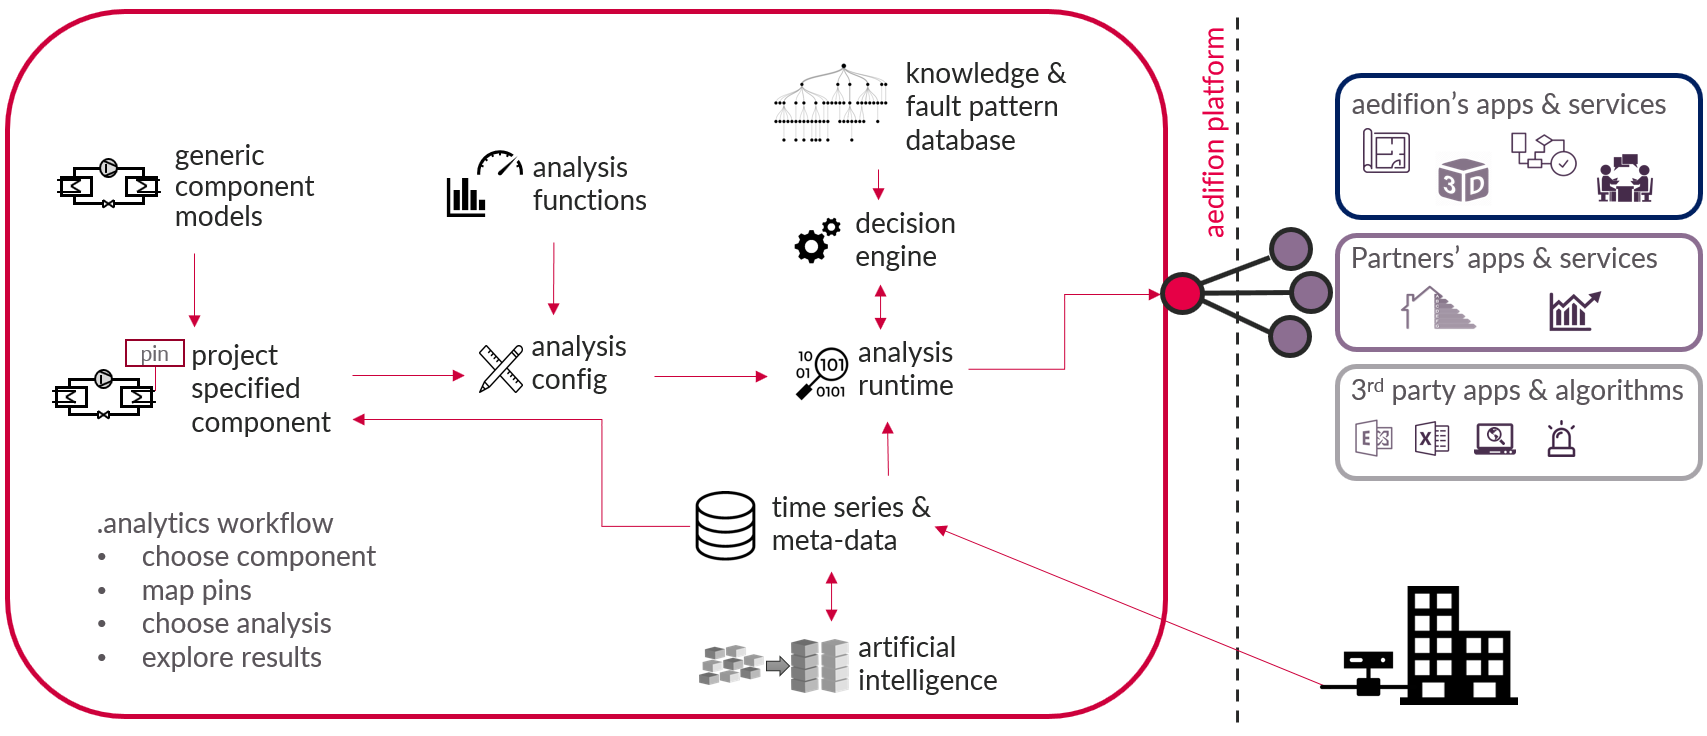
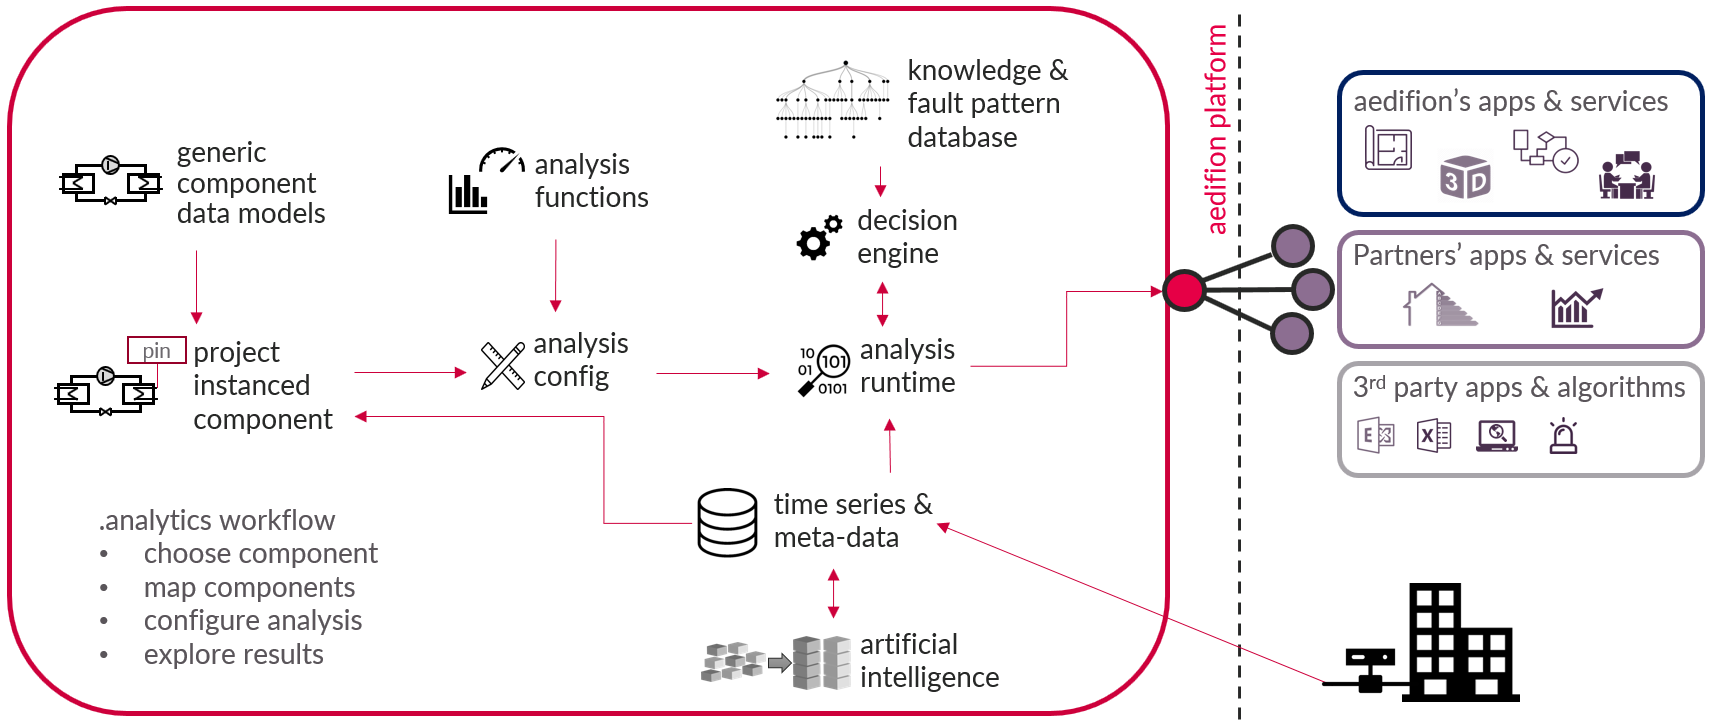
GitBook: [master] 2 pages and 2 assets modified

diff --git a/aedifion.analytics.md b/aedifion.analytics.md
@@ -39,7 +39,7 @@ _Short summary on terminology:_
 * [Components ****](glossary.md#component)are virtual or logical objects within a building or energy-related plants, such as e.g. pumps, boilers, thermal zones, control loops and so forth.
 * \*\*\*\*[Component data models](glossary.md#component-data-model) are generic data models of components.
 * [Instanced components](glossary.md#instanced-component) are component data models instanced for a specific project. They can be [mapped ](aedifion.analytics.md#mapping)to adapt them to specific projects.
-* [Mapping ](glossary.md#mapping)is the process of linking [datapoints ](glossary.md#datapoint)to [pins ](glossary.md#pin)of the component data model and adding meta-data [tags](glossary.md#tag).
+* [Mapping ](glossary.md#mapping)is the process of linking [datapoints ](glossary.md#datapoint)to [pins ](glossary.md#pin)of the component data model and adding meta data [tags](glossary.md#tag).
 {% endhint %}
 
 All contemporary available component ****data models are collected in the aedifion component data model library. The component data models needed for a specific project can be chosen from this library. As soon as a component gets [instanced](aedifion.analytics.md#instance-components) to a specific project, it can be [mapped](aedifion.analytics.md#mapping) to specify it for that project. [Configuring ](aedifion.analytics.md#configuring-analysis)an instanced component with [analysis functions ](aedifion.analytics.md#analysis-functions)enables its analysis.
@@ -50,13 +50,13 @@ _Learn more? Explore the_ [_available components_](engineers/specifications/anal
 
 Analysis functions are granular and generic functions to analyse the operation of [components](glossary.md#component). The aedifion analysis function library inherits all contemporary available analysis functions within aedifion.analytics.
 
-Analysis functions are available per component data model and get executed on [mapped ](glossary.md#mapping)[pins ](glossary.md#pin)and meta-data of [instanced components](glossary.md#instanced-component). E.g., an analysis of plant cycles is available for several instanced components like heat pumps, air handling units, boilers and so forth. This analysis requires a [mapping ](aedifion.analytics.md#mapping)of the pin _operating message_ of the analyzed instanced component.
+Analysis functions are available per component data model and get executed on [mapped ](glossary.md#mapping)[pins ](glossary.md#pin)and meta data of [instanced components](glossary.md#instanced-component). E.g., an analysis of plant cycles is available for several instanced components like heat pumps, air handling units, boilers and so forth. This analysis requires a [mapping ](aedifion.analytics.md#mapping)of the pin _operating message_ of the analyzed instanced component.
 
 _Learn more? Explore the_ [_available analysis functions_](engineers/specifications/analytics.md) _and corresponding_ [_API endpoints_](developers/api-documentation/guides-and-tutorials/analytics.md)_._
 
 ### Analysis runtime
 
-The analysis run-time is the engine which executes analysis determinations. It utilizes the [stream ](aedifion.io/features.md#stream-processing)and [batch ](aedifion.io/features.md#batch-processing)processing services of the aedifion.io platform and performs evaluations of the [analysis configuration](aedifion.analytics.md#configuring-analysis) on demand. If an interpretation of the analysis results is required, the analysis runime calls the [decision engine](aedifion.analytics.md#decision-engine).
+The analysis runtime is the engine which executes analysis determinations. It utilizes the [stream ](aedifion.io/features.md#stream-processing)and [batch ](aedifion.io/features.md#batch-processing)processing services of the aedifion.io platform and performs evaluations of the [analysis configuration](aedifion.analytics.md#configuring-analysis) on demand. If an interpretation of the analysis results is required, the analysis runime calls the [decision engine](aedifion.analytics.md#decision-engine).
 
 ### Decision engine
 
@@ -69,7 +69,7 @@ _Example:_
 * This can easily be identified via the KPI _number of cycles per hour_.
 * The decision engine decides at which threshold value this is too frequent is made in the decision engine.
 * If the decision is _too frequent_, recommendation on how to increase the cycle time is queried from the [knowledge & fault pattern database](aedifion.analytics.md#knowledge-and-fault-pattern-databse) by the decision engine.
-* The decision and recommendations are returned to the [analytics run-time](aedifion.analytics.md#analysis-runtime).
+* The decision and recommendations are returned to the [analytics runtime](aedifion.analytics.md#analysis-runtime).
 {% endhint %}
 
 ### Knowledge & fault pattern database
@@ -78,46 +78,56 @@ The knowledge & fault pattern database is the gathered engineering knowledge use
 
 ## Process 
 
-The framework aedifion.analytics requires the processes _instancing component_, _mapping component_, and _configuring analysis_. The process _exploring results_ is explicitly discussed to demonstrate the outputs of aedifion.analytics and how to make use of them.
+The aedifion.analytics framework process starts with _instancing a component_: assigning of a component data model __to a specific [project](glossary.md#project). An instanced component gets project individualized by _mapping the component_ which assigns [datapoints ](glossary.md#datapoint)and meta data to the instanced component. _Configuring an analysis_ describes the process of choosing analysis functions which shall be run on the instanced component. _Exploring results_ demonstrates how to query results from a configured analysis and how to explore them.
 
-### Instancing component
+### Instancing a component
 
-A component data model can be instantiated for a specific project. This means that e.g. a _project A_ has a component _B_, e.g. a _control loop_. After instantiating, time series data can be [mapped ](aedifion.analytics.md#mapping)to the **pins** of a component, e.g. the _set point_, the _system_ _output_, and the _manipulated variable \(i.e. controller output\)_. Further, **meta data**, i.e. the component's characteristics or parameters, can be added to the component, e.g. a _proportional gain_ for a _control loop_.
-
-Instantiating components is the process of adding [components ](aedifion.analytics.md#components)from the aedifion component library to a specific project.
-
-By [mapping ](aedifion.analytics.md#mapping)data points and meta data to the generic component data model it becomes project individual and is ready for analysis.
+Instancing a component describes the process of assigning a generic [component data model](glossary.md#component-model) to a specific [project](glossary.md#project). Colloquially expressed: Choose the [components ](glossary.md#component)of your [building/project](glossary.md#project) from the [component data model library](aedifion.analytics.md#component-data-model-library).
 
 _Learn more? Try the_ [_API tutorial_](developers/api-documentation/guides-and-tutorials/analytics.md)_._
 
-### Mapping component
+### Mapping a component
 
-Mapping is the process of connecting a components pin to a data point, respectively its time series.
-
-To adjust a [generic component model](aedifion.analytics.md#components) to a specific project it only requires the mapping of data points to the corresponding pins of this component. The [data management functionalities](aedifion.io/features.md#data-management-and-structuring) and [meta-data](aedifion.io/features.md#meta-data) available on aedifion.io are supporting this process.
+Mapping a component is the process which individualizes the generic [instanced component](glossary.md#instanced-component) data model for a specific project. This comprise linking [datapoints, ](glossary.md#datapoint)respectively their time series,[ ](glossary.md#datapoint)to the [pins ](glossary.md#pin)of the instanced component and adding meta data [tags](glossary.md#tag) to it. A mapped component is ready for analysis.
 
 {% hint style="info" %}
-[Ingested ](aedifion.io/features.md#data-ingress)as well as [AI-generated](aedifion.io/features.md#ai-generated-meta-data) meta data can be used to support the mapping between components and datapoints.
+[Ingested ](aedifion.io/features.md#data-ingress)as well as [AI-generated](aedifion.io/features.md#ai-generated-meta-data) meta data can be used to support the mapping, especially the linking of datapoints and pins.
 {% endhint %}
 
 _Learn more? Try the_ [_API tutorial._](developers/api-documentation/guides-and-tutorials/analytics.md)\_\_
 
-### Configuring analysis
+### Configuring an analysis
 
-Configuring analysis is the process to individualize the analysis which should be run on an instanced [component](aedifion.analytics.md#components). Choices are:
+Configuring analysis is the process to individualize the analysis which should be run on an [instanced component](glossary.md#instanced-component). Choices are:
 
-* Which [analysis functions](aedifion.analytics.md#analysis-functions) shall be run on the component? This can be a subset of the analysis functions available for the component model.
-* It is possible to define several configurations on one instanced component and thus create individual analysis sets.
+* Which [analysis functions](aedifion.analytics.md#analysis-functions) shall be run on the component? This can be a subset of the analysis functions available for the [component data model](glossary.md#component-data-model).
+* It is possible to define several configurations on the same instanced component and thus create individual analysis sets.
 * Advanced settings: analyse multi-time intervals. This option allows to perform analyses over a fixed number of time intervals, a fixed interval length or a combination of both. 
   * _Learn more on multi-time intervals? Try the_ [_API tutorial_](developers/api-documentation/guides-and-tutorials/analytics.md)_._
 
-The configuration will be passed to the [analytics run-time](aedifion.analytics.md#analysis-runtime) when [analysis results](aedifion.analytics.md#results) of this configuration are queried.
+The analysis configuration will be passed to the [analytics runtime](aedifion.analytics.md#analysis-runtime) when [analysis results](aedifion.analytics.md#results) of this configuration are queried.
 
 _Learn more? Try the_ [_API tutorial_](developers/api-documentation/guides-and-tutorials/analytics.md)_._
 
 ### Exploring results
 
-Results are KPIs known from engineering and thermodynamics, rearranged or virtually determined time series and interpretations thereof. Interpretations can be composed of qualitative ratings such as traffic lights, notification types, and free texts for the interpretation and recommendations for action. The results determined are depending on the [analysis functions](aedifion.analytics.md#analysis-functions) executed.
+Querying results is easy: Choose a start and end time and an [analysis config](aedifion.analytics.md#configuring-an-analysis) which shall be executed. The [analytics runtime](aedifion.analytics.md#analysis-runtime) will evaluate the [analysis functions](aedifion.analytics.md#analysis-functions) of the config and return its results within the next seconds.
+
+Depending on the utilized analysis functions, the result type differentiates. A set of key performance indicators, restructured or virtually determined time series, qualitative evaluations - e.g. in traffic light colors -, notification types, interpretations and recommendations is returned.
+
+**Key performance indicators:** Known indicators from engineering and thermodynamics in order to get a quick, comparable overview over a components operation and performance, e.g., the coefficient of performance.
+
+**Restructured time series:** Restructuring time series helps to focus on a certain aspect of the time series and allows visual analysis of this aspect. E.g., the overall load distribution of a component can easily be analysed via a load duration graph which is just a restructured power time series.
+
+**Virtually determined time series:** Some analysis functions determine time series via mathematical correlations. E.g., a fluid heat flux via two temperature sensors, a volume flow sensor, and knowledge of the fluid medium.
+
+**Qualitative evaluation:** Sometimes _green_, _yellow_, _red_ is all what is required to get an overview over the components operation.
+
+**Notification types:** Notification types help to priorities results. They come in the dimensions _indoor comfort_, _energy efficiency_, _maintenance_, and _system integration_ with the escalation information _ok_, _notice_, _warning_, _and critical_.
+
+**Interpretation:** This is the interpretation of the analysis results by the decision machine. E.g., "The component is pulsing in extremely high frequency."
+
+**Recommendation:** This is the recommendation of optimization measures given by the decision engine. E.g., "Reduce component pulsing by throttling the output heat power. Throttling can be realized by partial-load operation of the component or installation of an input power choke."
 
 Learn more? _Explore the_ [_available analysis functions_](engineers/specifications/analytics.md) _and corresponding_ [_API endpoints_](developers/api-documentation/guides-and-tutorials/analytics.md)_._
 
@@ -125,11 +135,11 @@ Learn more? _Explore the_ [_available analysis functions_](engineers/specificati
 
 _School A_ has extraordinary high primary energy consumption for heating. A technician is asked to optimize this system. After the technician plug and play installed [aedifion.io ](aedifion.io/)at _School A_, the analysis of the building can start: One condensing boiler, and three heat distribution circuits shall be analysed.
 
-The technician adds one _boiler_, and three _heating loop_ components to the _School A_ project and maps the correct data points to the pins of the components - supported by the provided meta data on data points. Since the technician suspects something might be wrong with the temperature levels, the _set-point compliance_ analysis function is run on the heat distribution circuits and on the boiler.
+The technician adds one _boiler_, and three _heating loop_ [component data models](glossary.md#component-data-model) to the _School A_ project and [maps ](glossary.md#mapping)the [datapoints](glossary.md#datapoint) to the [pins ](glossary.md#pin)of the [instanced components ](glossary.md#instanced-component)- supported by the provided meta data on data points. Since the technician suspects something might be wrong with the temperature levels, the _set-point compliance_ analysis function is run on the heat distribution circuits and on the boiler.
 
 The analysis results confirm the assumption: All three circuits exceed their temperature levels while the boiler meets its set-point temperature quiet fine. The reason for that is identified by the decision engine of aedifion.analytics: The heating curve of the boiler is not designed according to demand. Therefore, the analytics results recommend an adjustment of the heat curve which the technician does right away.
 
-This means that not only can the boiler be operated with a significantly lower load, but overheating of the classrooms can also be avoided. The school principal is glad about the saved energy costs. the pupils and teachers are happy about the fact that they don't have to constantly open the window in winter, because it is too warm in the room.
+This means that not only can the boiler be operated with a significantly lower load, but also overheating of the classrooms can also be avoided. The school principal is glad about the saved energy costs. And the pupils and teachers are happy about the fact that they don't have to constantly open the window in winter, because it is too warm in the room.
 
 ## Use cases
 
@@ -137,7 +147,9 @@ The use of aedifion.analytics is beneficial in several scenarios and business ca
 
 * **Optimization projects:** aedifion.analytics provides deep system transparency and recommendations to optimize operations in the dimensions of energy service delivery, indoor comfort, energy efficiency, and maintenance expanses. Therefore aedifion.analytics can be used by technicians or engineers to support their optimization projects.
 * **Original equipment manufacturers \(OEMs\):** aedifion.analytics provides scalable analysis which can be offered as additional data service to end customers of OEMs. Furthermore, aedifion.analytics supports R&D departments of OEMs with deep insights on actual operational behavior and usage of their equipment in the field - of course without revealing the individuals behind the data.
-* **Enhancement of existing software:** Existing data applications and cloud services can be extended with aedifion.analytics functionalities. All that is necessary for this is the integration of the API.
+* **Enhancement of existing software:** Existing data applications and cloud services can be extended with aedifion.analytics functionalities. Integration of the API endpoints is all it requires
+* **Operation and energy monitoring:** aedifion.analytics provides durable energy and maintenance efficiency throughout the whole building/plant life time, identifies aging phenomenons of components and recommends fixes. Therefore, aedifion.analytics significantly lowers operating costs. Furthermore, aedifion.analytics enables energy monitoring.
+* **Commissioning project:** aedifion.analytics supports commissioning via field layer and component functional tests.
 
 You have further ideas or questions if your use case can be supported by aedifion.analytics? [Contact us](contact.md#support)!
 

diff --git a/glossary.md b/glossary.md
@@ -26,7 +26,7 @@ A component is a physical or virtual object or system in a [building](glossary.m
 
 ### Component data model
 
-A component data model is a generic data model of a [component](glossary.md#component). It may have arbitrary many [pins ](glossary.md#pin)and [tags ](glossary.md#tag)for meta-data.
+A component data model is a generic data model of a [component](glossary.md#component). It may have arbitrary many [pins ](glossary.md#pin)and [tags ](glossary.md#tag)for meta data.
 
 ### **Datapoint**
 
@@ -42,11 +42,11 @@ A physical building automation device, e.g., a programmable logic controller, co
 
 ### Instanced component
 
-An instanced component is a [component data model](glossary.md#component-data-model) instanced for a specific [project](glossary.md#project). An instanced component is associated to exactly one project, the [pins ](glossary.md#pin)of the component data model it is instanced from may be mapped to the [datapoints ](glossary.md#datapoint)of the project. Meta-data [tags ](glossary.md#tag)may be added to an instanced component to further individualize it.
+An instanced component is a [component data model](glossary.md#component-data-model) instanced for a specific [project](glossary.md#project). An instanced component is associated to exactly one project, the [pins ](glossary.md#pin)of the component data model it is instanced from may be mapped to the [datapoints ](glossary.md#datapoint)of the project. Meta data [tags ](glossary.md#tag)may be added to an instanced component to further individualize it.
 
 ### Mapping
 
-Mapping is the process of individualizing an [instanced component](glossary.md#instanced-component). It includes the linking of a [datapoint ](glossary.md#datapoint)and thus its [time series](glossary.md#time-series) of a [project ](glossary.md#project)with a [pin ](glossary.md#pin)and parametrizing meta-data [tags](glossary.md#tag).
+Mapping is the process of individualizing an [instanced component](glossary.md#instanced-component). It includes the linking of a [datapoint ](glossary.md#datapoint)and thus its [time series](glossary.md#time-series) of a [project ](glossary.md#project)with a [pin ](glossary.md#pin)and parametrizing meta data [tags](glossary.md#tag).
 
 ### Measurement
 
